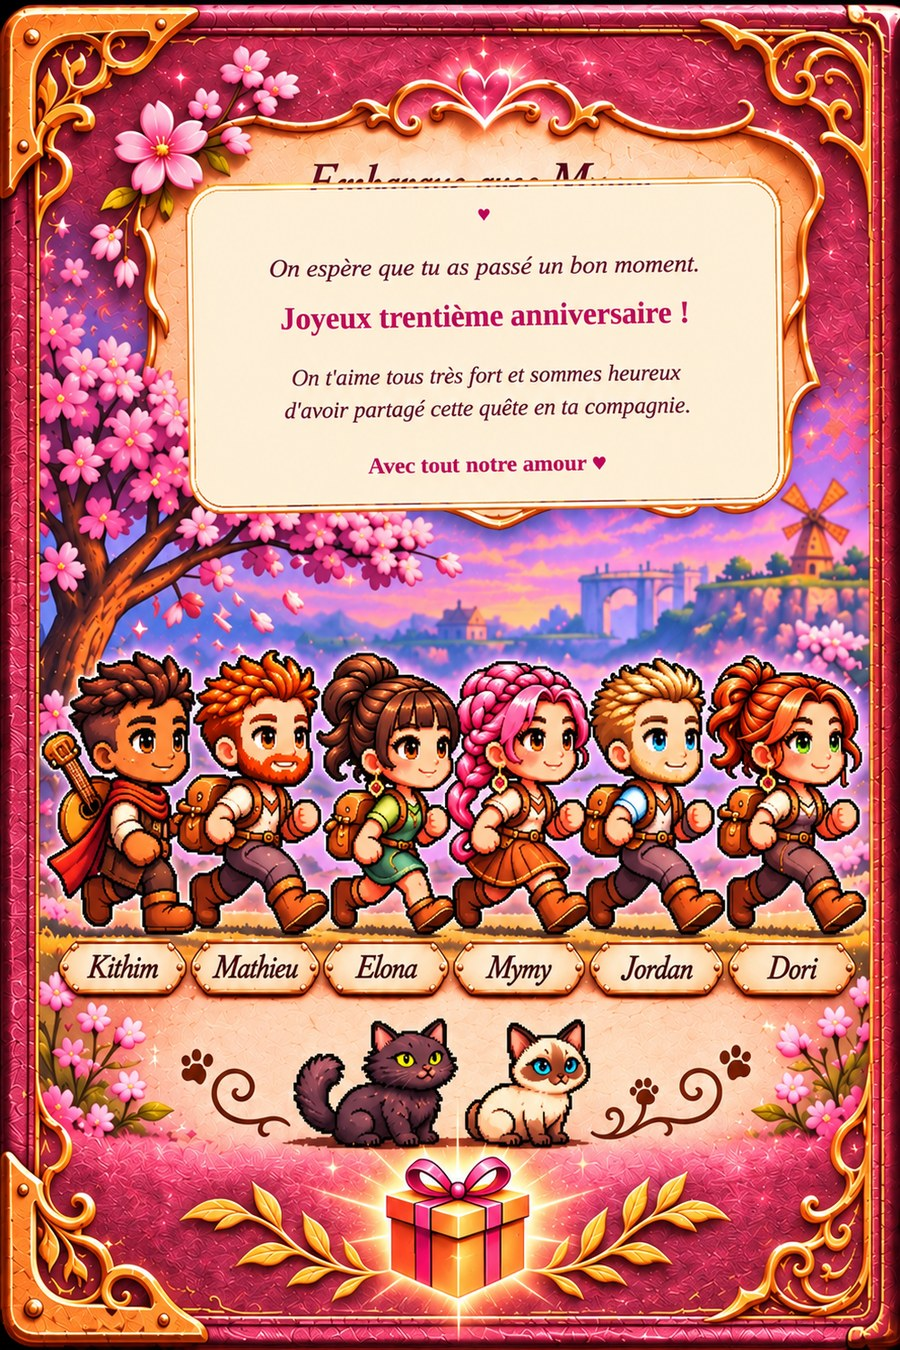
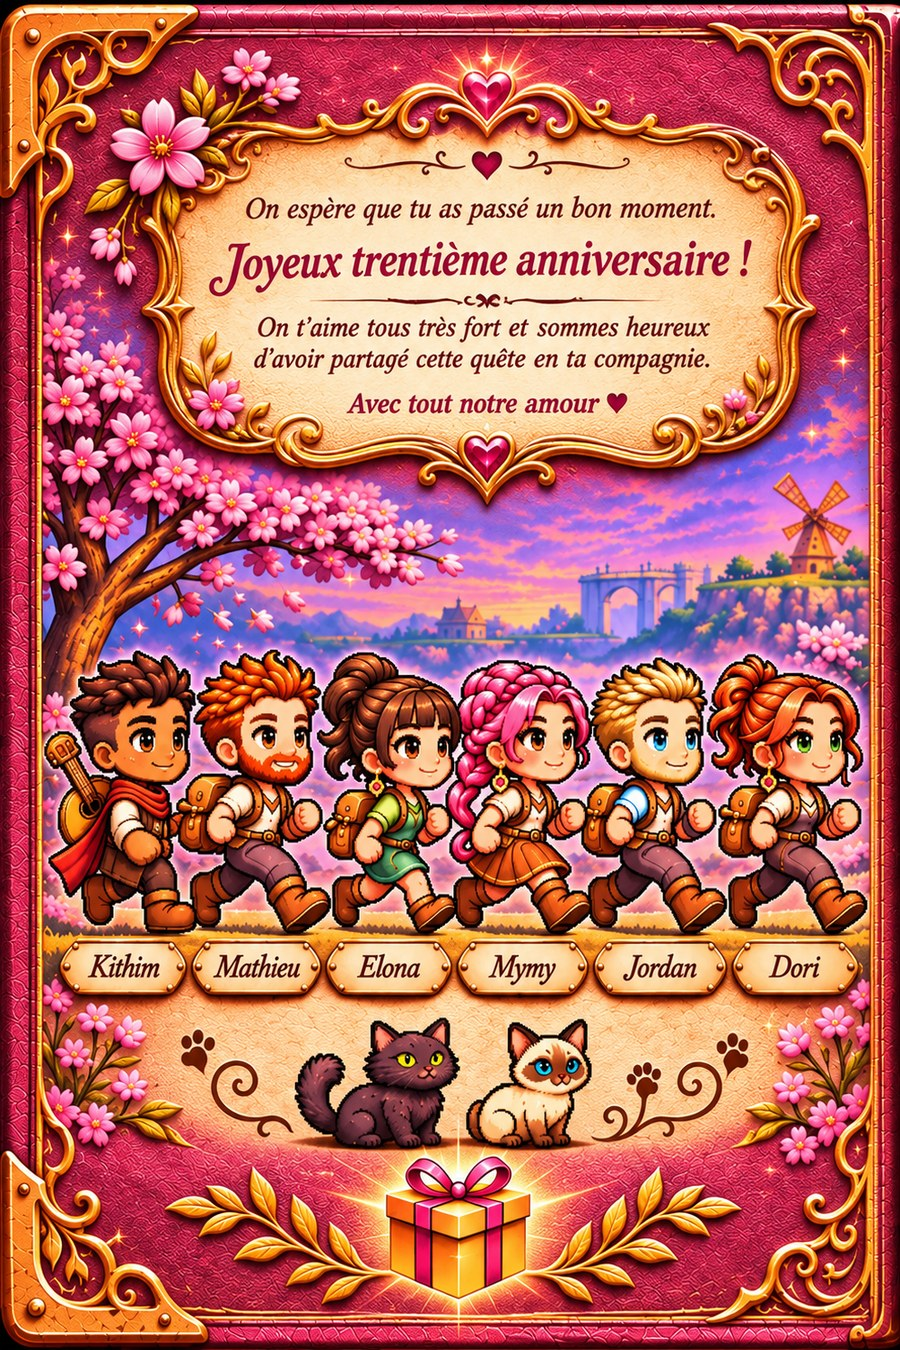
Refonte des modèles : nouveaux sprites (Mymy, Mathieu, Dori, Elona, Jordan, Kithim + guitare), groupe de 6, nouveau dos, poses adaptées
Claude-Session: https://claude.ai/code/session_01B58cury2Yrux2tXnUAfKFq

diff --git a/app.js b/app.js
@@ -28,19 +28,27 @@ const save = () => { try { localStorage.setItem(KEY, JSON.stringify(st)); } catc
 
 /* ====================== Sprites ====================== */
 const META = {
-  mymy: { w: 139, h: 141, frames: 20, ms: 200 }, dori: { w: 182, h: 177, frames: 20, ms: 200 },
-  elona: { w: 155, h: 172, frames: 10, ms: 200 }, jordan: { w: 221, h: 288, frames: 16, ms: 140 },
-  mathieu: { w: 212, h: 292, frames: 16, ms: 140 }, murphy: { w: 274, h: 198, frames: 20, ms: 200 },
-  vaia: { w: 260, h: 193, frames: 20, ms: 160 }, groupe: { w: 721, h: 268, frames: 6, ms: 130 },
-  trophee: { w: 501, h: 454, frames: 6, ms: 350 }, tresor: { w: 510, h: 510, frames: 6, ms: 350 }, kithim: { w: 276, h: 408, frames: 8, ms: 120 }
+  mymy: { w: 272, h: 292, frames: 16, ms: 180, u: 27.2 },
+  dori: { w: 250, h: 286, frames: 16, ms: 180, u: 26.6 },
+  elona: { w: 261, h: 310, frames: 16, ms: 180, u: 28.8 },
+  jordan: { w: 348, h: 332, frames: 12, ms: 350, u: 30.9 },
+  mathieu: { w: 237, h: 306, frames: 16, ms: 180, u: 28.5 },
+  kithim: { w: 286, h: 300, frames: 16, ms: 180, u: 27.9 },
+  kguit: { w: 232, h: 308, frames: 16, ms: 180, u: 28.6 },
+  murphy: { w: 274, h: 198, frames: 20, ms: 200 },
+  vaia: { w: 260, h: 193, frames: 20, ms: 160 },
+  groupe: { w: 681, h: 196, frames: 9, ms: 120, u: 18.2 },
+  trophee: { w: 501, h: 454, frames: 6, ms: 350 },
+  tresor: { w: 510, h: 510, frames: 6, ms: 350 }
 };
+/* poses des modèles « dernière refonte » : idle / joy / run = [première, dernière] image ; step = pas rebondi (pas de cycle de marche) */
 const HERO = {
-  mymy: { h: 26, idle: [0, 1], joy: [12, 19], run: [8, 11] },
-  dori: { h: 26.5, idle: [0, 1], joy: [12, 19], run: [8, 11] },
-  elona: { h: 25, idle: [0, 1], joy: [6, 9], run: [4, 5] },
-  jordan: { h: 27, idle: [0, 0], joy: [0, 15], run: [0, 15] },
-  mathieu: { h: 27, idle: [0, 0], joy: [0, 15], run: [0, 15] },
-  kithim: { h: 24.5, idle: [0, 0], joy: [1, 6], run: [1, 6], fps: 11 }
+  mymy: { idle: [9, 10], joy: [1, 3], run: [0, 0], step: true, jf: 6, rf: 6 },
+  dori: { idle: [0, 0], joy: [12, 15], run: [7, 8], jf: 6, rf: 8 },
+  elona: { idle: [0, 1], joy: [12, 15], run: [0, 0], step: true, jf: 6, rf: 6 },
+  jordan: { idle: [0, 1], joy: [4, 7], run: [0, 1], step: true, jf: 5, rf: 6 },
+  mathieu: { idle: [0, 0], joy: [6, 9], run: [0, 0], step: true, jf: 5, rf: 6 },
+  kithim: { idle: [0, 0], joy: [7, 7], run: [1, 6], jf: 6, rf: 11 }
 };
 const CATRUN = { murphy: [4, 10], vaia: [4, 9] };
 const live = new Set();
@@ -89,14 +97,14 @@ function actor(name, h, o = {}) {
   return a;
 }
 function hero(name, o = {}) {
-  const c = HERO[name], a = actor(name, o.h || c.h, o);
+  const c = HERO[name], m = META[name]; let h = o.h || m.u * (o.s || 1); if (o.maxw && h * m.w / m.h > o.maxw) h = o.maxw * m.h / m.w; const a = actor(name, h, o);
   a._name = name;
   if (c.idle[1] > c.idle[0]) play(a._spr, c.idle[0], c.idle[1], { fps: 2.2 }); else still(a._spr, c.idle[0]);
   return a;
 }
-function heroIdle(a) { const c = HERO[a._name]; a.classList.remove("hop"); if (c.idle[1] > c.idle[0]) play(a._spr, c.idle[0], c.idle[1], { fps: 2.2 }); else still(a._spr, c.idle[0]); }
-function heroJoy(a) { const c = HERO[a._name]; a.classList.add("hop"); play(a._spr, c.joy[0], c.joy[1], { fps: c.fps || (a._name === "jordan" || a._name === "mathieu" ? 14 : 6) }); }
-function heroRun(a) { const c = HERO[a._name]; play(a._spr, c.run[0], c.run[1], { fps: c.fps || (a._name === "jordan" || a._name === "mathieu" ? 16 : 9) }); }
+function heroIdle(a) { const c = HERO[a._name]; a.classList.remove("hop", "step"); if (c.idle[1] > c.idle[0]) play(a._spr, c.idle[0], c.idle[1], { fps: 2.2 }); else still(a._spr, c.idle[0]); }
+function heroJoy(a) { const c = HERO[a._name]; a.classList.remove("step"); a.classList.add("hop"); if (c.joy[1] > c.joy[0]) play(a._spr, c.joy[0], c.joy[1], { fps: c.jf }); else still(a._spr, c.joy[0]); }
+function heroRun(a) { const c = HERO[a._name]; a.classList.remove("hop"); a.classList.toggle("step", !!c.step); if (c.run[1] > c.run[0]) play(a._spr, c.run[0], c.run[1], { fps: c.rf }); else still(a._spr, c.run[0]); }
 function cat(name, h, o = {}) {
   const a = actor(name, h, Object.assign({ bob: false }, o)); a._name = name;
   play(a._spr, 0, 1, { fps: 1.4 }); return a;
@@ -292,7 +300,7 @@ function bIntro(i) {
   const ps = lines.map((l, k) => { const e = el("p", k === 3 ? "big" : "", l); t.append(e); return e; });
   p.append(t);
   const order = [["kithim", 13], ["mathieu", 28], ["elona", 43], ["mymy", 58], ["jordan", 73], ["dori", 88]], nm = { kithim: "Kithim", mathieu: "Mathieu", elona: "Elona", mymy: "Mymy", jordan: "Jordan", dori: "Dori" };
-  order.forEach(([n, x]) => { const h = hero(n, { h: n === "mymy" ? 20 : n === "kithim" ? 18 : 18.5, cx: x }); h.style.bottom = U(30); p.append(h); const l = el("div", "names", nm[n]); l.style.left = U(x); l.style.top = U(121); l.style.fontSize = U(2.6); p.append(l); });
+  order.forEach(([n, x]) => { const h = hero(n, { s: .72, maxw: 17, cx: x }); h.style.bottom = U(30); p.append(h); const l = el("div", "names", nm[n]); l.style.left = U(x); l.style.top = U(121); l.style.fontSize = U(2.6); p.append(l); });
   const done = !!st.unlocked[i];
   if (done) ps.forEach(e => e.classList.add("in"));
   p._start = () => {
@@ -311,14 +319,14 @@ function bMap(i) {
   p.append(sc, card);
   const done = !!st.unlocked[i];
   const names = [["kithim", 8], ["mathieu", 20.5], ["elona", 33], ["mymy", 45.5], ["jordan", 58], ["dori", 70.5]];
-  const line = names.map(([n, x]) => { const a = hero(n, { h: n === "mymy" ? 17 : 16, cx: x + 2 }); a.style.bottom = U(4); a.style.opacity = done ? 1 : 0; a.style.transition = "opacity .5s"; sc.append(a); return a; });
+  const line = names.map(([n, x]) => { const a = hero(n, { s: .6, maxw: 14.5, cx: x + 2 }); a.style.bottom = U(4); a.style.opacity = done ? 1 : 0; a.style.transition = "opacity .5s"; sc.append(a); return a; });
   const map = el("div", "map", MAPSVG), bam = el("div", "bam", BAM);
   sc.append(map, bam);
   if (done) { map.classList.add("gone"); setText(card, MAP_TXT); }
   p._start = () => {
     if (done) return;
-    const g = actor("groupe", 17, { l: -50, b: 3, bob: false }); g.style.transition = "left 2.6s linear"; sc.append(g); play(g._spr, 0, 5, { fps: 1000 / 130 });
-    requestAnimationFrame(() => requestAnimationFrame(() => { g.style.left = U(18); }));
+    const g = actor("groupe", 14, { l: -55, b: 3, bob: false }); g.style.transition = "left 2.6s linear"; sc.append(g); play(g._spr, 0, 8, { fps: 1000 / 120 });
+    requestAnimationFrame(() => requestAnimationFrame(() => { g.style.left = U(16); }));
     setTimeout(() => {
       if (!p.isConnected) return;
       g.style.transition = "opacity .5s"; g.style.opacity = 0; line.forEach(a => a.style.opacity = 1); setTimeout(() => g.remove(), 600);
@@ -345,7 +353,7 @@ const GHERO = ["mymy", "dori", "kithim", "jordan", "mathieu", "elona"];
 const GHINT = { tap: "✦ Touche le cadeau pour l'ouvrir ✦", shake: "✦ Secoue le cadeau : touche-le 3 fois ✦", cat: "✦ Touche le chat : il va t'aider ✦", bushes: "✦ Le cadeau se cache sous un buisson ✦", hold: "✦ Maintiens ton doigt sur le cadeau ✦", run: "✦ Touche le sol : ton héros court au cadeau ✦" };
 function bGift(i) {
   const def = PAGES[i], n = def.n, done = !!st.unlocked[i];
-  const type = GTYPES[(n - 1) % 6], hn = GHERO[((n - 1) + Math.floor((n - 1) / 6)) % 6], T = THEMES[THEME_ORDER[(n - 1) % 12]], col = BOXCOLORS[(n - 1) % 8];
+  const type = GTYPES[(n - 1) % 6], hn0 = GHERO[((n - 1) + Math.floor((n - 1) / 6)) % 6], hn = type === "run" && hn0 === "jordan" ? "kithim" : hn0, T = THEMES[THEME_ORDER[(n - 1) % 12]], col = BOXCOLORS[(n - 1) % 8];
   const p = pageEl(); p.append(chapter("Cadeau n°", n));
   const sc = scene(T, n), card = newCard(GHINT[type]); p.append(sc, card);
   const h = hero(hn, { l: type === "bushes" ? -1 : type === "run" ? 2 : 5 });
@@ -418,8 +426,8 @@ function bFinal(i) {
   const troph = actor("trophee", 42, { cx: 41, b: 3, bob: false }); troph.style.opacity = 0; troph.style.transition = "opacity .7s"; sc.append(troph);
   if (done) { play(troph._spr, 0, 5, { fps: 1000 / 350 }); troph.style.opacity = 1; setText(card, FINAL_TXT); return p; }
   p._start = () => {
-    const g = actor("groupe", 17, { l: -50, b: 3, bob: false }); g.style.transition = "left 2.6s linear"; sc.append(g); play(g._spr, 0, 5, { fps: 1000 / 130 });
-    requestAnimationFrame(() => requestAnimationFrame(() => { g.style.left = U(18); }));
+    const g = actor("groupe", 14, { l: -55, b: 3, bob: false }); g.style.transition = "left 2.6s linear"; sc.append(g); play(g._spr, 0, 8, { fps: 1000 / 120 });
+    requestAnimationFrame(() => requestAnimationFrame(() => { g.style.left = U(16); }));
     let stage = 0, taps = 0, dig = null;
     setTimeout(() => {
       if (!p.isConnected) return;
@@ -477,7 +485,7 @@ const KEYSVG = '<svg viewBox="0 0 30 48"><defs><linearGradient id="kg" x1="0" y1
 function portal(text, mid) {
   Snd.sfx("bam");
   const pt = el("div", "portal show", '<div class="pv"><i></i><i></i><i></i><b></b></div><div class="pm"></div><div class="pcap"></div>');
-  pt.lastChild.textContent = text; const m = actor("mymy", 26, { bob: false }); m.className = "actor"; pt.querySelector(".pm").append(m); play(m._spr, 8, 11, { fps: 10 });
+  pt.lastChild.textContent = text; const m = actor("mymy", 26, { bob: false }); m.className = "actor step"; pt.querySelector(".pm").append(m); still(m._spr, 0);
   book.append(pt);
   setTimeout(mid, 1200); setTimeout(() => pt.remove(), 2400);
 }
@@ -566,7 +574,7 @@ $("#mVillage").addEventListener("click", () => { menu.classList.remove("show"); 
 document.addEventListener("visibilitychange", () => { if (!document.hidden && Snd.ctx && Snd.on && Snd.ctx.state === "suspended") Snd.ctx.resume(); });
 
 /* ====================== Démarrage ====================== */
-function village() { window.__vil = Village.start(book, { el, U, hero, heroRun, heroIdle, heroJoy, cat, Snd }, () => { st.village = true; save(); }); }
+function village() { window.__vil = Village.start(book, { el, U, hero, heroRun, heroIdle, heroJoy, cat, Snd, actor, play, META }, () => { st.village = true; save(); }); }
 ["assets/page-vierge.jpg", "assets/couverture.jpg", "assets/dos.jpg"].concat(Object.keys(META).map(k => `assets/sprites/${k}.png`)).forEach(s => { const im = new Image(); im.src = s; });
 st.max = Math.min(st.max || 0, PAGES.length - 1);
 cur = -1; curEl = null;

diff --git a/village.js b/village.js
@@ -60,16 +60,16 @@ function close() {
 
 function start(book, A, onDone) {
   close();
-  const { el, U, hero, heroRun, heroIdle, heroJoy, cat, Snd } = A;
+  const { el, U, hero, heroRun, heroIdle, heroJoy, cat, Snd, actor, play, META } = A;
   root = el("div", "vl");
   const world = el("div", "vw", scenery()); world.style.width = U(W); root.append(world);
   const place = (a, cx, b) => { a.style.left = U(cx - a._w / 2); a.style.bottom = U(b); world.append(a); return a; };
   // compagnons devant leurs maisons, chats dans le village
-  HOUSES.forEach(h => { if (h.who !== "mymy") place(hero(h.who, { h: h.who === "kithim" ? 19 : 21 }), h.x + 25, 26); });
+  HOUSES.forEach(h => { if (h.who !== "mymy") place(hero(h.who, { s: .78, maxw: 27 }), h.x + 26, 26); });
   place(cat("vaia", 10), 70, 25); place(cat("murphy", 9.5), 262, 25); place(cat("vaia", 10), 520, 25);
   // le livre lumineux au bout du chemin
   const bk = el("div", "vl-book", '<i></i><img src="assets/couverture.jpg" alt="">'); bk.style.left = U(BOOKX - 11); world.append(bk);
-  const me = hero("mymy", { h: 22 }); me.style.bottom = U(24); world.append(me);
+  const me = hero("mymy", { s: .8 }); me.style.bottom = U(24); world.append(me);
 
   const top = el("div", "vl-top", '<b>🌸 Le village des six maisons</b><span></span>'); root.append(top);
   const hint = top.lastChild;
@@ -98,9 +98,10 @@ function start(book, A, onDone) {
     const room = r.querySelector(".vr-room"), p = r.querySelector("p"), btn = r.querySelector("button");
     const put = (a, cx, b) => { a.style.left = U(cx - a._w / 2); a.style.bottom = U(b); room.append(a); return a; };
     let who;
-    if (h.who === "mymy") { who = put(hero("mymy", { h: 34 }), 44, 5); put(cat("vaia", 14), 14, 5); put(cat("murphy", 13), 76, 5); }
-    else who = put(hero(h.who, { h: h.who === "kithim" ? 32 : 36 }), 44, 5);
-    if (h.who === "kithim") { heroIdle(who); who.classList.add("hop"); } else { heroJoy(who); who.classList.remove("hop"); }
+    if (h.who === "mymy") { who = put(hero("mymy", { s: 1.25 }), 44, 5); put(cat("vaia", 14), 14, 5); put(cat("murphy", 13), 76, 5); }
+    else if (h.who === "kithim") { who = put(actor("kguit", META.kguit.u * 1.25, { bob: false }), 44, 5); play(who._spr, 0, 15, { fps: 6 }); }
+    else who = put(hero(h.who, { s: 1.25, maxw: 50 }), 44, 5);
+    if (h.who !== "kithim") { heroJoy(who); who.classList.remove("hop"); }
     const ch = Array.from(h.msg); let k = 0, tw = 0;
     btn.style.visibility = "hidden";
     const fin = () => { clearInterval(tw); tw = 0; p.textContent = h.msg; btn.style.visibility = "visible"; };

diff --git a/cave.js b/cave.js
@@ -15,7 +15,7 @@ function fireTrapY(h, now) { return h.baseY + Math.sin(now * h.speed + h.phase) 
 const caveCoinsMap = [[300,350],[360,350],[565,292],[625,292],[865,350],[930,350],[1120,285],[1180,285],[1420,340],[1480,340],[1680,275],[1740,275],[1985,345],[2045,345],[2245,285],[2305,285],[2535,345],[2595,345],[2740,405]];
 const GAPS = [[650,735],[1510,1590],[2300,2380]];
 const SHEET = new Image(); SHEET.src = "assets/sprites/mymy.png";
-const CELL = { w: 139, h: 141 };
+const FRAMES = 16; // images du modèle de Mymy : 0 = marche (profil), 1 = joie, 9/10 = repos
 
 let root, caveCanvas, caveCtx, opts, running = false, raf = 0, last = 0;
 let caveCamera = 0, caveCoins = 0, caveWon = false, caveLives = 3, caveDying = false, caveCheckpoint = 70, caveInvulnUntil = 0, gameOvers = 0;
@@ -227,13 +227,13 @@ function draw(){
  }
  // Mymy (sprites du livre)
  const airborne=!cavePlayer.onGround||Math.abs(cavePlayer.vy)>1, moving=!!(caveHeld.left||caveHeld.right);
- let fk=0; if(airborne)fk=13; else if(moving)fk=8+Math.floor(now/90)%4; else fk=Math.floor(now/450)%2;
+ let fk=0,bob=0; if(airborne)fk=1; else if(moving){fk=0;bob=Math.abs(Math.sin(now/85))*5;} else fk=9+Math.floor(now/450)%2;
  if(SHEET.complete&&SHEET.naturalWidth){
-  const dh=cavePlayer.h+6,dw=dh*CELL.w/CELL.h,dx=cavePlayer.x-cam+(cavePlayer.w-dw)/2,dy=cavePlayer.y-4;
+  const CW=SHEET.naturalWidth/FRAMES,CH=SHEET.naturalHeight,dh=cavePlayer.h+8,dw=dh*CW/CH,dx=cavePlayer.x-cam+(cavePlayer.w-dw)/2,dy=cavePlayer.y-6-bob;
   ctx.save();ctx.imageSmoothingEnabled=false;
   if(now<caveInvulnUntil&&Math.floor(now/110)%2===0)ctx.globalAlpha=.28;
-  if(cavePlayer.face<0){ctx.translate(dx+dw,dy);ctx.scale(-1,1);ctx.drawImage(SHEET,fk*CELL.w,0,CELL.w,CELL.h,0,0,dw,dh);}
-  else ctx.drawImage(SHEET,fk*CELL.w,0,CELL.w,CELL.h,dx,dy,dw,dh);
+  if(cavePlayer.face<0){ctx.translate(dx+dw,dy);ctx.scale(-1,1);ctx.drawImage(SHEET,fk*CW,0,CW,CH,0,0,dw,dh);}
+  else ctx.drawImage(SHEET,fk*CW,0,CW,CH,dx,dy,dw,dh);
   ctx.restore();
  }
  if(caveWon){ // la clé s'élève au centre de l'écran

diff --git a/style.css b/style.css
@@ -207,3 +207,6 @@ button{font-family:inherit;cursor:pointer}
 .vr-card{position:absolute;left:calc(var(--u)*7);width:calc(var(--u)*86);top:calc(var(--u)*90);height:calc(var(--u)*53);padding:calc(var(--u)*3) calc(var(--u)*4);display:flex;flex-direction:column;align-items:center;justify-content:space-between;text-align:center;border:calc(var(--u)*.8) solid #dcab6a;border-radius:calc(var(--u)*3);background:linear-gradient(145deg,#fffaf0,#fdeee6);color:var(--ink)}
 .vr-card p{margin:0;font-size:calc(var(--u)*4);line-height:1.38;font-style:italic}
 .spr.fade{-webkit-mask-image:linear-gradient(90deg,transparent,#000 14%,#000 86%,transparent);mask-image:linear-gradient(90deg,transparent,#000 14%,#000 86%,transparent)}
+
+.actor.step{animation:step .3s ease-in-out infinite alternate}
+@keyframes step{from{transform:translateY(0) rotate(-2deg)}to{transform:translateY(calc(var(--u)*-1.1)) rotate(2deg)}}

diff --git a/sw.js b/sw.js
@@ -1,6 +1,6 @@
 // Service worker : le livre fonctionne hors-ligne après la première ouverture.
 // Pour publier une mise à jour, change le numéro de version ci-dessous.
-const VERSION = "livre-v5";
+const VERSION = "livre-v6";
 const FILES = [
   "./",
   "./index.html",
@@ -18,6 +18,7 @@ const FILES = [
   "./icons/apple-touch-icon.png",
   "./assets/sprites/mymy.png",
   "./assets/sprites/kithim.png",
+  "./assets/sprites/kguit.png",
   "./assets/sprites/dori.png",
   "./assets/sprites/elona.png",
   "./assets/sprites/jordan.png",
